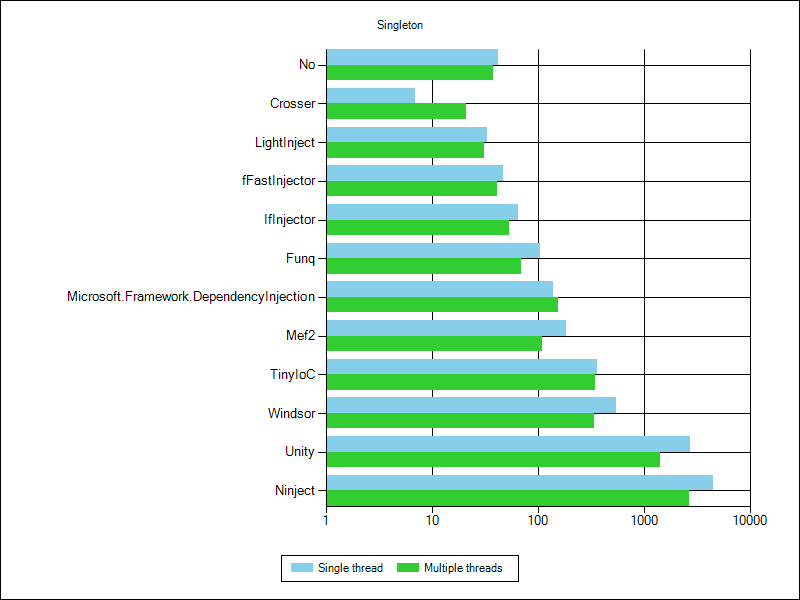
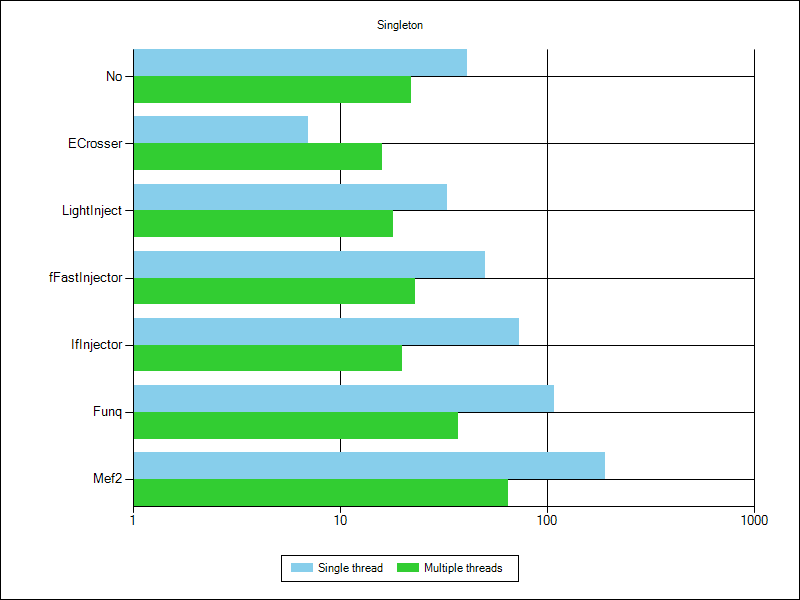
updated test results

diff --git a/docs/resolver/benchmarks.htm b/docs/resolver/benchmarks.htm
@@ -107,33 +107,33 @@ Instead we aimed at being the best/fastest when is comes to the features needed 
 <tbody>
 <tr>
 	<td>No Container</td>
-	<td>42</td>
-	<td>38</td>
+	<td>41</td>
+	<td>22</td>
 </tr>
 <tr>
 	<td>Crosser</td>
 	<td><strong>7</strong></td>
-	<td><strong>21</strong></td>
+	<td><strong>16</strong></td>
 </tr>
 <tr>
 	<td>LightInject</td>
 	<td>33</td>
-	<td>31</td>
+	<td>18</td>
 </tr>
 <tr>
 	<td>fFastInjector</td>
-	<td>47</td>
-	<td>41</td>
+	<td>50</td>
+	<td>23</td>
 </tr>
 <tr>
 	<td>IfInjector</td>
-	<td>65</td>
-	<td>53</td>
+	<td>73</td>
+	<td>20</td>
 </tr>
 <tr>
 	<td>Func</td>
-	<td>104</td>
-	<td>69</td>
+	<td>108</td>
+	<td>37</td>
 </tr>
 <tr>
 	<td>Microsoft DI</td>
@@ -142,8 +142,8 @@ Instead we aimed at being the best/fastest when is comes to the features needed 
 </tr>
 <tr>
 	<td>Mef2</td>
-	<td>183</td>
-	<td>110</td>
+	<td>190</td>
+	<td>65</td>
 </tr>
 <tr>
 	<td>TinyIoC</td>
@@ -184,33 +184,33 @@ Instead we aimed at being the best/fastest when is comes to the features needed 
 <tbody>
 <tr>
 	<td>No Container</td>
-	<td>54</td>
+	<td>53</td>
 	<td>52</td>
 </tr>
 <tr>
 	<td>Crosser</td>
 	<td><strong>21</strong></td>
-	<td><strong>41</strong></td>
+	<td><strong>33</strong></td>
 </tr>
 <tr>
 	<td>LightInject</td>
-	<td>39</td>
-	<td>48</td>
+	<td>41</td>
+	<td>35</td>
 </tr>
 <tr>
 	<td>fFastInjector</td>
-	<td>91</td>
-	<td>71</td>
+	<td>95</td>
+	<td>44</td>
 </tr>
 <tr>
 	<td>IfInjector</td>
-	<td>104</td>
-	<td>71</td>
+	<td>103</td>
+	<td>40</td>
 </tr>
 <tr>
 	<td>Func</td>
-	<td>130</td>
-	<td>879</td>
+	<td>137</td>
+	<td>47</td>
 </tr>
 <tr>
 	<td>Microsoft DI</td>
@@ -219,8 +219,8 @@ Instead we aimed at being the best/fastest when is comes to the features needed 
 </tr>
 <tr>
 	<td>Mef2</td>
-	<td>192</td>
-	<td>121</td>
+	<td>203</td>
+	<td>64</td>
 </tr>
 <tr>
 	<td>TinyIoC</td>
@@ -261,18 +261,18 @@ Instead we aimed at being the best/fastest when is comes to the features needed 
 <tbody>
 <tr>
 	<td>No Container</td>
-	<td>158</td>
-	<td>102</td>
+	<td>166</td>
+	<td>61</td>
 </tr>
 <tr>
 	<td>Crosser</td>
-	<td>481</td>
-	<td>272</td>
+	<td><strong>236</strong></td>
+	<td><strong>72</strong></td>
 </tr>
 <tr>
 	<td>LightInject</td>
-	<td><strong>234</strong></td>
-	<td><strong>146</strong></td>
+	<td>257</td>
+	<td>86</td>
 </tr>
 <tr>
 	<td>fFastInjector</td>
@@ -296,8 +296,8 @@ Instead we aimed at being the best/fastest when is comes to the features needed 
 </tr>
 <tr>
 	<td>Mef2</td>
-	<td>1125</td>
-	<td>604</td>
+	<td>1158</td>
+	<td>363</td>
 </tr>
 <tr>
 	<td>TinyIoC</td>
